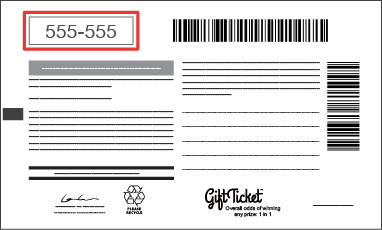
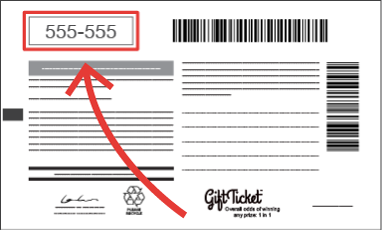
adding registration card flip

diff --git a/register.js b/register.js
@@ -57,10 +57,10 @@ $(function() {
 
     $("body").on("focus", "#activationCode", function(e){
         $(this).parent().toggleClass("floating-label-form-group-with-value", true);
-        $("div.flip-container")[0].classList.toggle("flip");
+        $("div.flip-container")[0].classList.toggle("flip", true);
     }).on("blur", "#activationCode", function(e){
         $(this).parent().toggleClass("floating-label-form-group-with-value", !! $(e.target).val());
-        $("div.flip-container")[0].classList.toggle("flip");
+        $("div.flip-container")[0].classList.toggle("flip", false);
     });
 
     activationCode.inputmask({

diff --git a/register.html b/register.html
@@ -20,7 +20,7 @@ redirect_from:
                 <h3 class="text-center" style="margin-bottom:10px; margin-top: 0;">Register a Gift Ticket</h3>
 
 
-                <div class="flip-container" ontouchstart="this.classList.toggle('hover');" style="margin:8px auto;">
+                <div class="flip-container"  style="margin:8px auto;">
                     <div class="flipper">
                         <div class="front">
                             <!-- front content -->

diff --git a/css/grayscale.css b/css/grayscale.css
@@ -1220,7 +1220,7 @@ p.meta {
 
 /* flip speed goes here */
 .flipper {
-    transition: 0.6s;
+    transition: 1.6s;
     transform-style: preserve-3d;
 
     position: relative;
@@ -1229,7 +1229,7 @@ p.meta {
 /* hide back of pane during swap */
 .front, .back {
     backface-visibility: hidden;
-
+    -webkit-backface-visibility: hidden;
     position: absolute;
     top: 0;
     left: 0;
